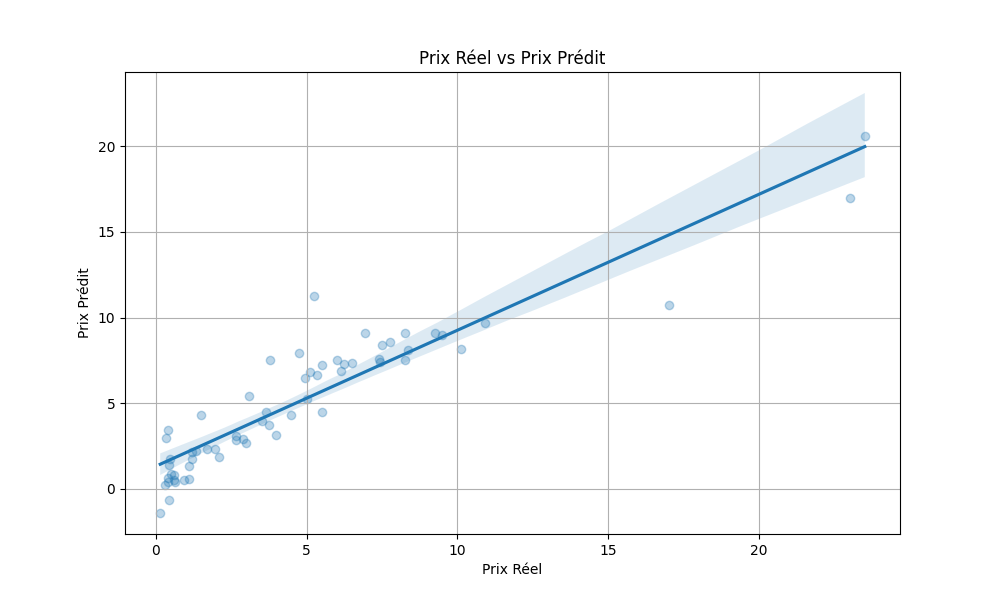
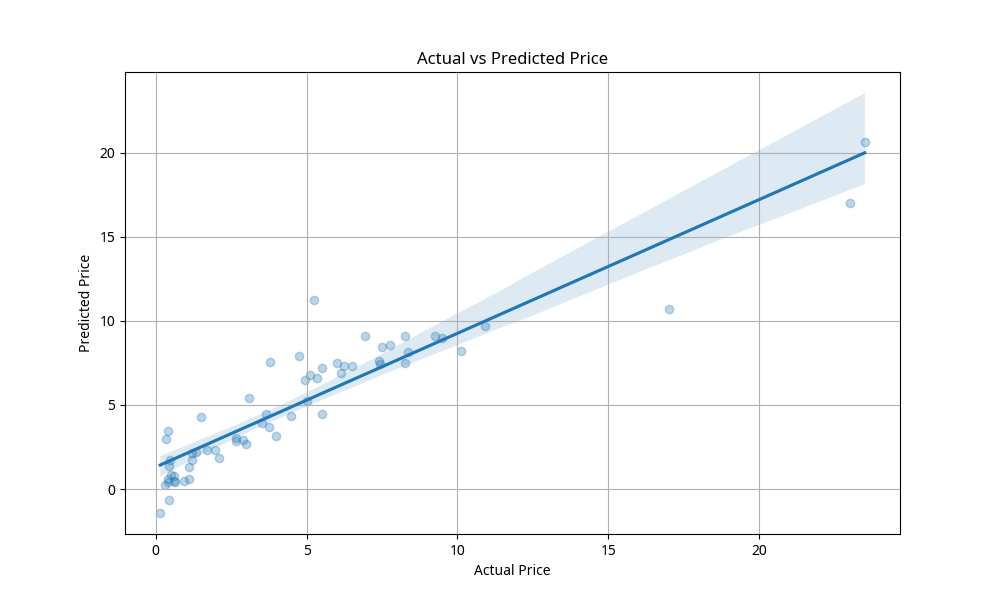
last commit

diff --git a/app.py b/app.py
@@ -5,29 +5,29 @@ from datetime import datetime
 
 app = Flask(__name__)
 
-# Charger le modèle entraîné
+# Load the trained model
 try:
     model = pickle.load(open("car_price_model.pkl", "rb"))
 except FileNotFoundError:
-    print("Erreur: car_price_model.pkl non trouvé. Assurez-vous d'exécuter car_price_prediction.py d'abord.")
+    print("Error: car_price_model.pkl not found. Make sure to run car_price_prediction.py first.")
     model = None
 
 @app.route("/", methods=["GET"])
 def home():
-    return "API de Prédiction du Prix des Voitures. Utilisez l'endpoint /predict pour faire des prédictions."
+    return "Car Price Prediction API. Use the /predict endpoint to make predictions."
 
 @app.route("/predict", methods=["POST"])
 def predict():
     if model is None:
-        return jsonify({"error": "Modèle non chargé. Veuillez contacter l'administrateur."}), 500
+        return jsonify({"error": "Model not loaded. Please contact the administrator."}), 500
 
     data = request.get_json(force=True)
 
-    # Validation des données d'entrée
+    # Input data validation
     required_fields = ["Present_Price", "Driven_kms", "Fuel_Type", "Selling_type", "Transmission", "Owner", "Year"]
     for field in required_fields:
         if field not in data:
-            return jsonify({"error": f"Champ manquant: {field}"}), 400
+            return jsonify({"error": f"Missing field: {field}"}), 400
 
     try:
         present_price = float(data["Present_Price"])
@@ -38,26 +38,26 @@ def predict():
         owner = int(data["Owner"])
         year = int(data["Year"])
     except ValueError as e:
-        return jsonify({"error": f"Erreur de type de données: {e}"}), 400
+        return jsonify({"error": f"Data type error: {e}"}), 400
 
-    # Ingénierie des caractéristiques (doit correspondre à celle utilisée lors de l'entraînement)
+    # Feature engineering (must match what was used during training)
     current_year = datetime.now().year
     car_age = current_year - year
 
-    # Créer un DataFrame pour la prédiction
-    # Assurez-vous que l'ordre et les noms des colonnes correspondent à ceux du modèle entraîné
-    # Les colonnes one-hot encodées doivent être présentes, même si elles sont à zéro
+    # Create a DataFrame for prediction
+    # Ensure that the order and column names match those of the trained model
+    # One-hot encoded columns must be present, even if they are zero
     input_data = pd.DataFrame([[present_price, driven_kms, owner, car_age, 0, 0, 0, 0]],
                                columns=["Present_Price", "Driven_kms", "Owner", "Car_Age",
                                         "Fuel_Type_Diesel", "Fuel_Type_Petrol",
                                         "Selling_type_Individual", "Transmission_Manual"])
 
-    # Gérer l'encodage one-hot pour les types de carburant, de vente et de transmission
+    # Handle one-hot encoding for fuel, selling, and transmission types
     if fuel_type == "Diesel":
         input_data["Fuel_Type_Diesel"] = 1
     elif fuel_type == "Petrol":
         input_data["Fuel_Type_Petrol"] = 1
-    # else: 'CNG' ou autre, les deux colonnes resteront à 0, ce qui est correct si le modèle a été entraîné avec drop_first=True
+    # else: 'CNG' or other, both columns will remain 0, which is correct if the model was trained with drop_first=True
 
     if selling_type == "Individual":
         input_data["Selling_type_Individual"] = 1
@@ -69,7 +69,7 @@ def predict():
         prediction = model.predict(input_data)[0]
         return jsonify({"predicted_price": round(prediction, 2)}), 200
     except Exception as e:
-        return jsonify({"error": f"Erreur lors de la prédiction: {e}"}), 500
+        return jsonify({"error": f"Prediction error: {e}"}), 500
 
 if __name__ == "__main__":
     app.run(debug=True, host="0.0.0.0", port=5000)

diff --git a/car_price_prediction.py b/car_price_prediction.py
@@ -7,8 +7,8 @@ import pickle
 import matplotlib.pyplot as plt
 import seaborn as sns
 
-# --- 1. Chargement et Exploration des Données ---
-# Charger le jeu de données
+# --- 1. Data Loading and Exploration ---
+# Load the dataset
 file_path = 'data/car data.csv'
 car_data = pd.read_csv(file_path)
 
@@ -21,59 +21,59 @@ print(car_data.isnull().sum())
 print("\nData Description:")
 print(car_data.describe())
 
-# --- 2. Prétraitement des Données et Ingénierie des Caractéristiques ---
-# Ingénierie des caractéristiques: Ajouter la colonne 'Car_Age'
+# --- 2. Data Preprocessing and Feature Engineering ---
+# Feature Engineering: Add 'Car_Age' column
 current_year = datetime.now().year
 car_data['Car_Age'] = current_year - car_data['Year']
 
-# Supprimer les colonnes 'Car_Name' et 'Year' (inutiles pour la modélisation)
+# Drop 'Car_Name' and 'Year' columns (not useful for modeling)
 car_data = car_data.drop(['Car_Name', 'Year'], axis=1)
 
-# Encoder les variables catégorielles en utilisant l'encodage one-hot
-# drop_first=True est utilisé pour éviter la multicolinéarité
+# Encode categorical variables using one-hot encoding
+# drop_first=True is used to avoid multicollinearity
 car_data_encoded = pd.get_dummies(car_data, columns=['Fuel_Type', 'Selling_type', 'Transmission'], drop_first=True)
 
 print("\nProcessed Data Head:")
 print(car_data_encoded.head())
 
-# --- 3. Entraînement du Modèle ---
-# Définir les caractéristiques (X) et la cible (y)
+# --- 3. Model Training ---
+# Define features (X) and target (y)
 X = car_data_encoded.drop('Selling_Price', axis=1)
 y = car_data_encoded['Selling_Price']
 
-# Diviser les données en ensembles d'entraînement et de test
+# Split data into training and testing sets
 X_train, X_test, y_train, y_test = train_test_split(X, y, test_size=0.2, random_state=42)
 
 print(f"\nTraining data shape: {X_train.shape}")
 print(f"Testing data shape: {X_test.shape}")
 
-# Entraîner le modèle de régression linéaire
+# Train the linear regression model
 model = LinearRegression()
 model.fit(X_train, y_train)
 
-# --- 4. Évaluation du Modèle ---
-# Faire des prédictions sur l'ensemble de test
+# --- 4. Model Evaluation ---
+# Make predictions on the test set
 y_pred = model.predict(X_test)
 
-# Évaluer le modèle en utilisant le score R2
+# Evaluate the model using R2 score
 r2 = r2_score(y_test, y_pred)
 print(f"\nR2 Score: {r2}")
 
-# Sauvegarder le modèle entraîné au format pickle
+# Save the trained model in pickle format
 with open('car_price_model.pkl', 'wb') as file:
     pickle.dump(model, file)
 
 print("\nModel saved as car_price_model.pkl")
 
-# --- 5. Visualisation des Résultats ---
-# Créer un graphique de régression pour visualiser les prix réels vs prédits
+# --- 5. Results Visualization ---
+# Create a regression plot to visualize actual vs predicted prices
 plt.figure(figsize=(10, 6))
 sns.regplot(x=y_test, y=y_pred, scatter_kws={'alpha':0.3})
-plt.xlabel("Prix Réel")
-plt.ylabel("Prix Prédit")
-plt.title("Prix Réel vs Prix Prédit")
+plt.xlabel("Actual Price")
+plt.ylabel("Predicted Price")
+plt.title("Actual vs Predicted Price")
 plt.grid(True)
 plt.savefig('real_vs_predicted_prices.png')
-# plt.show() # Commenté pour éviter l'affichage dans un environnement non-graphique
+# plt.show() # Commented out to avoid display in a non-graphic environment
 
 

diff --git a/README_en.md b/README_en.md
@@ -37,7 +37,7 @@ The repository contains the following files and directories:
 The `car data.csv` dataset contains information about various cars. Data preparation steps include:
 
 *   **Data Loading**: The CSV file is loaded into a Pandas DataFrame.
-*   **Feature Engineering**: A new feature, `Car_Age`, is created by subtracting the car's manufacturing year from the current year. This feature is crucial as a vehicle's age significantly impacts its price.
+*   **Feature Engineering**: A new feature, `Car_Age`, is created by subtracting the car\'s manufacturing year from the current year. This feature is crucial as a vehicle\'s age significantly impacts its price.
 *   **Removal of Irrelevant Columns**: The `Car_Name` and `Year` columns are dropped because `Car_Name` is not directly usable by the model (too many unique categories) and `Year` is replaced by `Car_Age`.
 *   **Categorical Variable Encoding**: Categorical variables such as `Fuel_Type`, `Selling_type`, and `Transmission` are converted to numerical format using one-hot encoding (`pd.get_dummies`). The `drop_first=True` option is used to avoid multicollinearity, which is a good practice in regression.
 
@@ -104,12 +104,15 @@ print(f"The predicted price for the car is: {predicted_price:.2f} lakhs")
 The project includes a Flask application (`app.py`) that provides an API for prediction. To start it:
 
 1.  Ensure that the `car_price_model.pkl` model has been generated by running `car_price_prediction.py`.
+    
 2.  Run the Flask application:
-    ```bash
+    
+    ```shell
     python app.py
     ```
-3.  The API will be available at `http://0.0.0.0:5000`. You can send POST requests to the `/predict` endpoint with a JSON body containing the car's features. Example request (using `curl` or Postman):
-
+    
+3.  The API will be available at `http://0.0.0.0:5000`. You can send POST requests to the `/predict` endpoint with a JSON body containing the car\'s features. Example request (using `curl` or Postman):
+    
     ```json
     {
         "Present_Price": 8.0,
@@ -121,9 +124,9 @@ The project includes a Flask application (`app.py`) that provides an API for pre
         "Year": 2015
     }
     ```
-
+    
     The API will return a JSON response with the predicted price:
-
+    
     ```json
     {
         "predicted_price": 5.50
@@ -132,7 +135,7 @@ The project includes a Flask application (`app.py`) that provides an API for pre
 
 ## 6. Results Visualization
 
-The `car_price_prediction.py` script generates a regression plot (`real_vs_predicted_prices.png`) that visualizes the relationship between actual and predicted prices by the model. This allows for a visual assessment of the model's performance.
+The `car_price_prediction.py` script generates a regression plot (`real_vs_predicted_prices.png`) that visualizes the relationship between actual and predicted prices by the model. This allows for a visual assessment of the model\'s performance.
 
 ![Actual vs Predicted Price](real_vs_predicted_prices.png)
 
@@ -147,7 +150,7 @@ Compared to the initial version, the following improvements have been implemente
     *   Error handling during prediction.
     *   A welcome message on the root route (`/`).
 *   **Improved Documentation**: This `README.md` file provides comprehensive project documentation, including structure, usage steps, and technical details.
-*   **Visualization**: A regression plot is generated for a better understanding of the model's performance.
+*   **Visualization**: A regression plot is generated for a better understanding of the model\'s performance.
 *   **Code Cleanup**: The code has been reviewed to improve readability, modularity, and adherence to good programming practices.
 *   **API Test Script**: Added a `test_api.py` script to facilitate testing of the Flask API.
 
